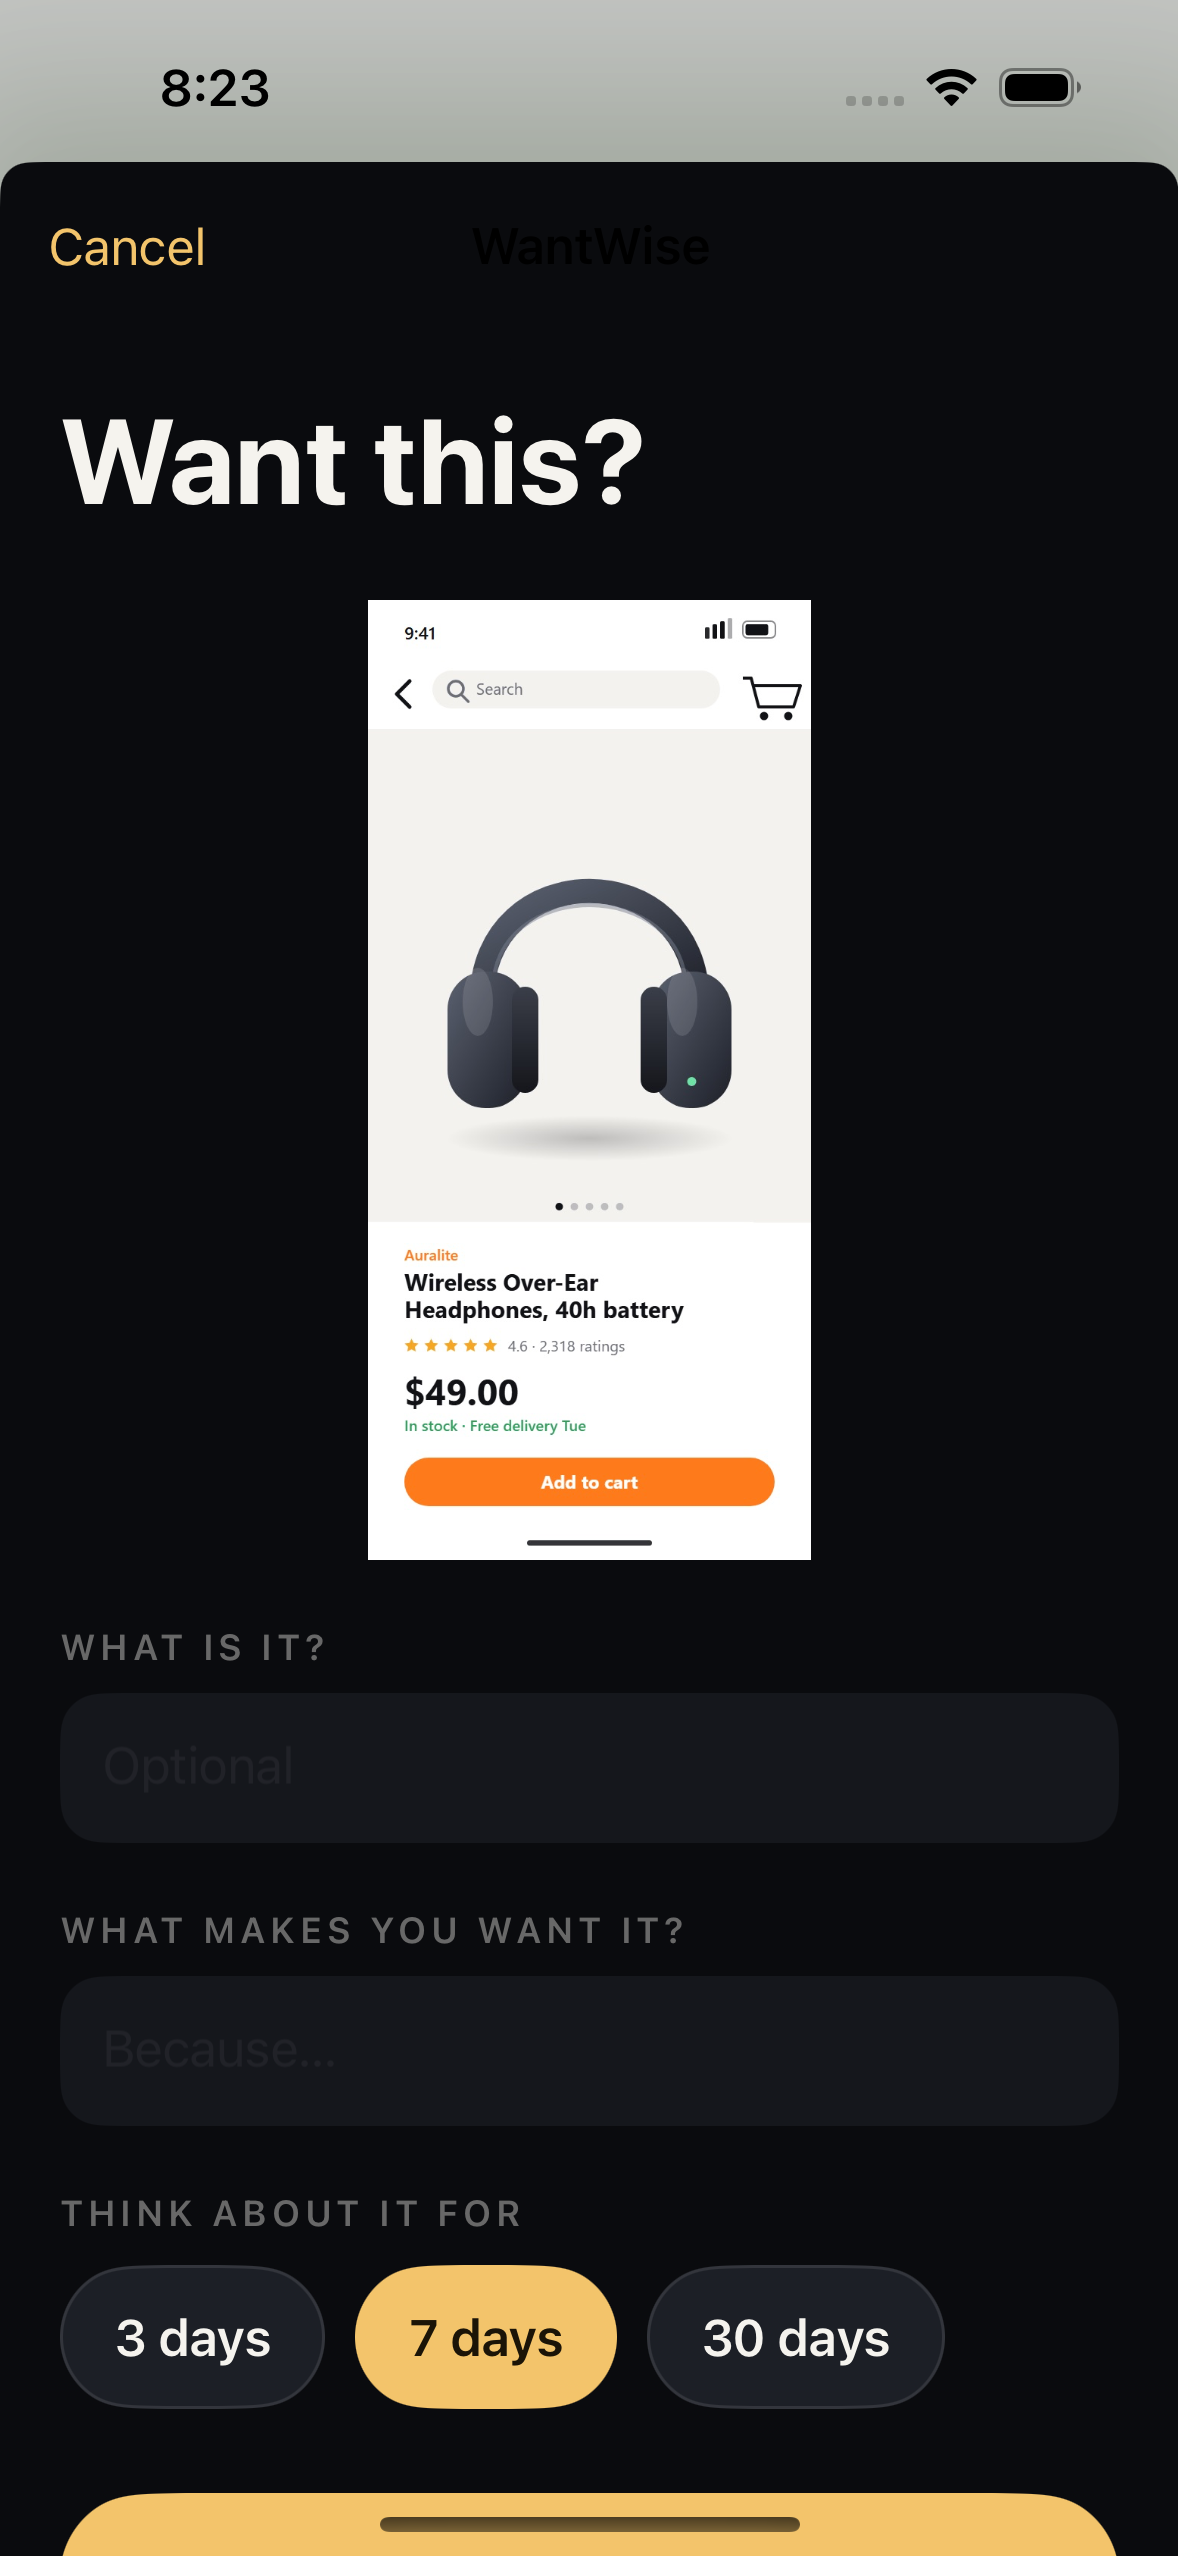
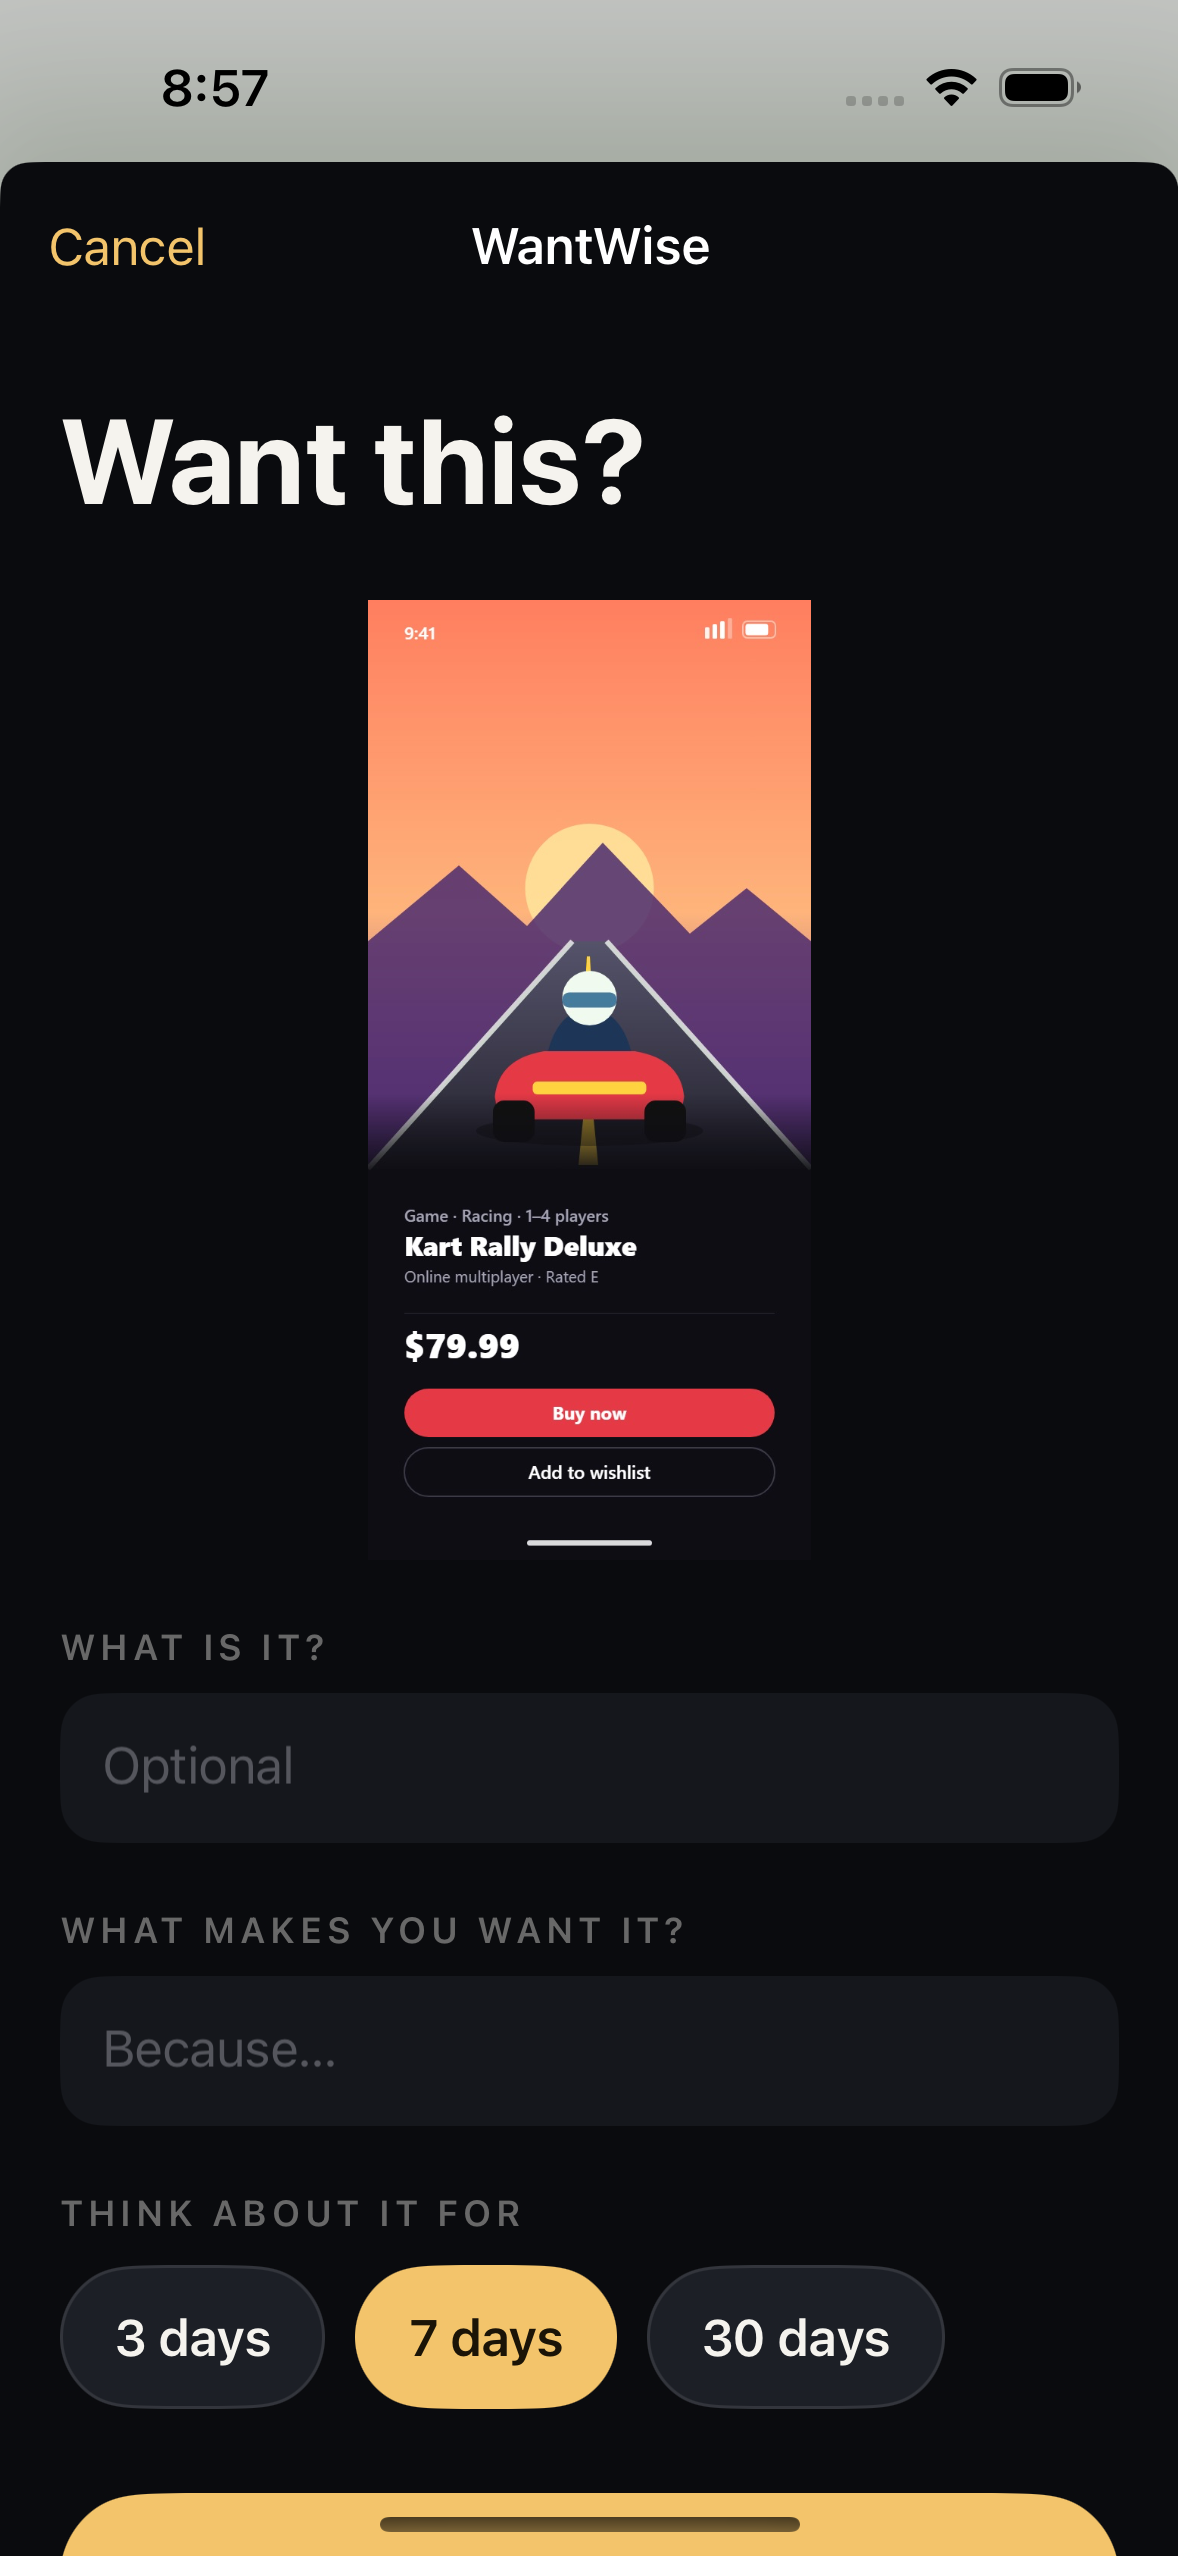
docs: verify Follow-up 1 fixes on the Mac (SE Add bar, Share Extension dark title)
Built 1426dea unchanged: core 66/66, unit 20/20, UI 4/4; screens green.
On the iPhone SE Think about it scrolls clear of the Add bar and taps
through; the Share Extension's title and placeholders are readable.
Replace small-home.png and share-extension.png.

diff --git a/docs/VERIFICATION.md b/docs/VERIFICATION.md
@@ -61,8 +61,8 @@ An independent pre-Mac review (2026-10-02) checked every file against iOS 17 API
 | Detail shows time remaining | 📝 detail opened only for a decided Want |
 | Reconsider: still want / wait longer / don't need it | 🍎 wait longer → still want via UI test, with history on detail + Timeline surviving relaunch; "don't need it" unit-tested only |
 | Reminder delivered; tap opens Want | 📝 needs a human in the Simulator (§6 check 11) |
-| Layout on iPhone SE / standard / Pro Max | 🍎 home screen, `docs/ios-screens/`. Known issue: on the SE the floating *Add a Want* button covered the ready card's *Think about it*. 📝 Fix drafted in WSL (button moved to a bottom bar via `safeAreaInset`), needs a Mac build + `screens` |
-| Share Extension: Photos → Share → WantWise | 🍎 iOS 18.5, unsigned: WantWise appears in the share sheet, capture screen shows the screenshot, *Add to WantWise* saves, and the app imports it with the image on next activation (`docs/ios-screens/share-*.png`, driven by a throwaway XCUITest). App Group works through Xcode's simulated entitlements (`group.tech.wantwise.app`). Cosmetic: the extension's nav title was black on the dark background. 📝 Fix drafted in WSL (`overrideUserInterfaceStyle = .dark`), needs a Mac check |
+| Layout on iPhone SE / standard / Pro Max | 🍎 home screen, `docs/ios-screens/`. SE overlap fixed (Follow-up 1): *Add a Want* is a bottom bar (`safeAreaInset`), so card content scrolls clear of it; at rest the first card's *Think about it* sits under the bar, and one swipe up exposes it and it taps through to the decision screen (throwaway XCUITest on iPhone SE / iOS 18.6) |
+| Share Extension: Photos → Share → WantWise | 🍎 iOS 18.5, unsigned: WantWise appears in the share sheet, capture screen shows the screenshot, *Add to WantWise* saves, and the app imports it with the image on next activation (`docs/ios-screens/share-*.png`, driven by a throwaway XCUITest). App Group works through Xcode's simulated entitlements (`group.tech.wantwise.app`). Nav title and placeholders now readable on dark (`overrideUserInterfaceStyle = .dark`, Follow-up 1; capture screen re-checked on iPhone 16 / iOS 18.5) |
 | Device install / TestFlight | ⏳ Stage 3 |
 
 ## Display
@@ -98,4 +98,10 @@ _(Add one entry per session: date, provider, macOS, Xcode, iOS runtimes, what wa
 - **Added:** `testMilestone1AcceptanceLoop` (§6 checks 4, 6, 8, 9, 10 automated).
 - **Share Extension:** works end to end in the Simulator without signing (see table). Not a blocker; real-device App Group needs signing (Stage 3).
 - **Still 📝:** PhotosPicker, real notification delivery + tap, edit/finish-adding screens, Dynamic Type.
-- **Known layout issues (fixes drafted in WSL afterwards, 📝 until rebuilt on a Mac):** on the iPhone SE the floating *Add a Want* button covers the ready card's *Think about it* until you scroll; Share Extension nav title is invisible (black on dark).
+- **Known layout issues (fixed in Follow-up 1 below):** on the iPhone SE the floating *Add a Want* button covers the ready card's *Think about it* until you scroll; Share Extension nav title is invisible (black on dark).
+
+### 2026-10-02 — MacinCloud, Follow-up 1 (same machine and versions)
+
+- **Built:** commit 1426dea (fixes drafted in WSL) compiled without changes. `mac-build.sh uitest`: WantWiseCore 66/66, unit 20/20, UI 4/4 on iPhone 16 / iOS 18.5. `screens` green on SE / 16 / 16 Pro Max.
+- **SE home:** *Add a Want* bar no longer overlays tappable content. A throwaway XCUITest swiped up, checked the *Think about it* and *Add* frames no longer overlap, and tapped through to the decision screen. New `docs/ios-screens/small-home.png` (at rest, the first card's button is still under the bar; scrolling is needed, as intended).
+- **Share Extension:** Photos → Share → WantWise via a throwaway XCUITest. The nav title is white and the placeholders are readable (`docs/ios-screens/share-extension.png`). Save/import wasn't re-run this time (verified in the previous session; the change only touches appearance).
